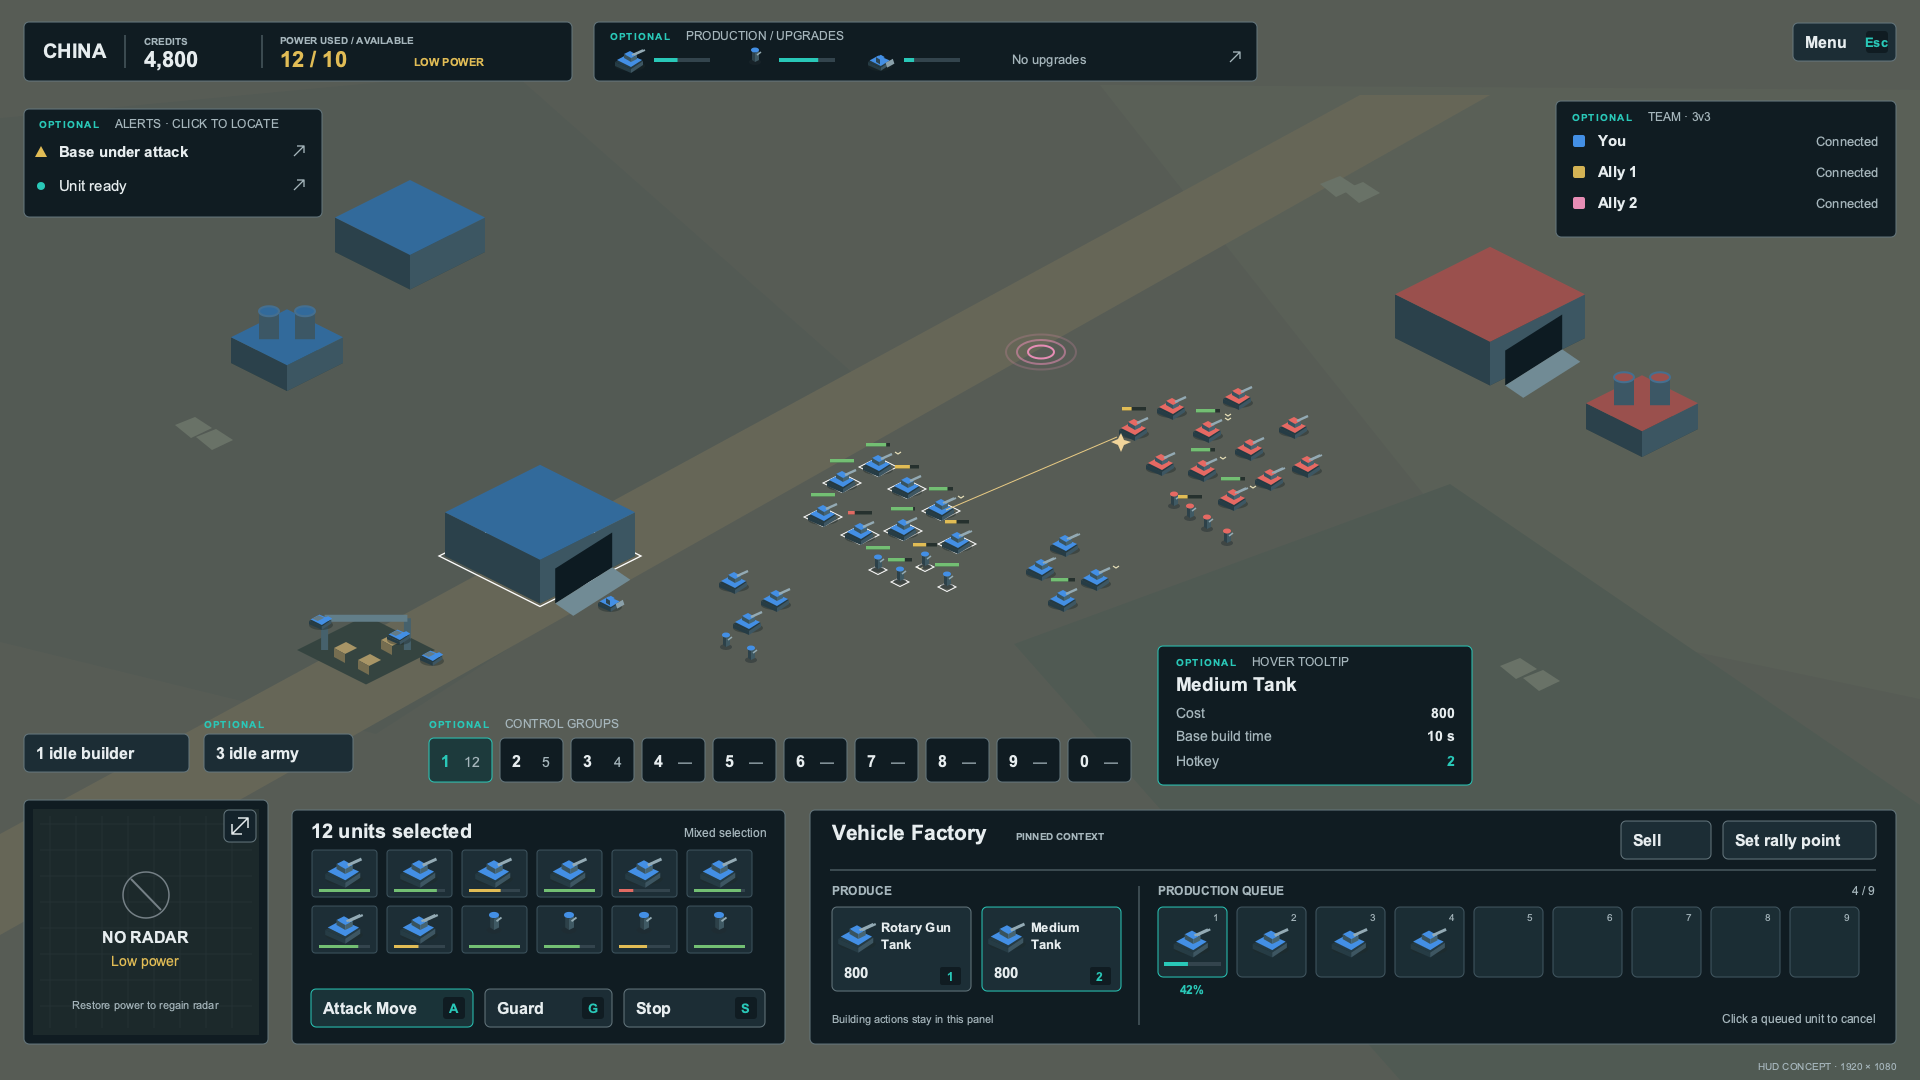
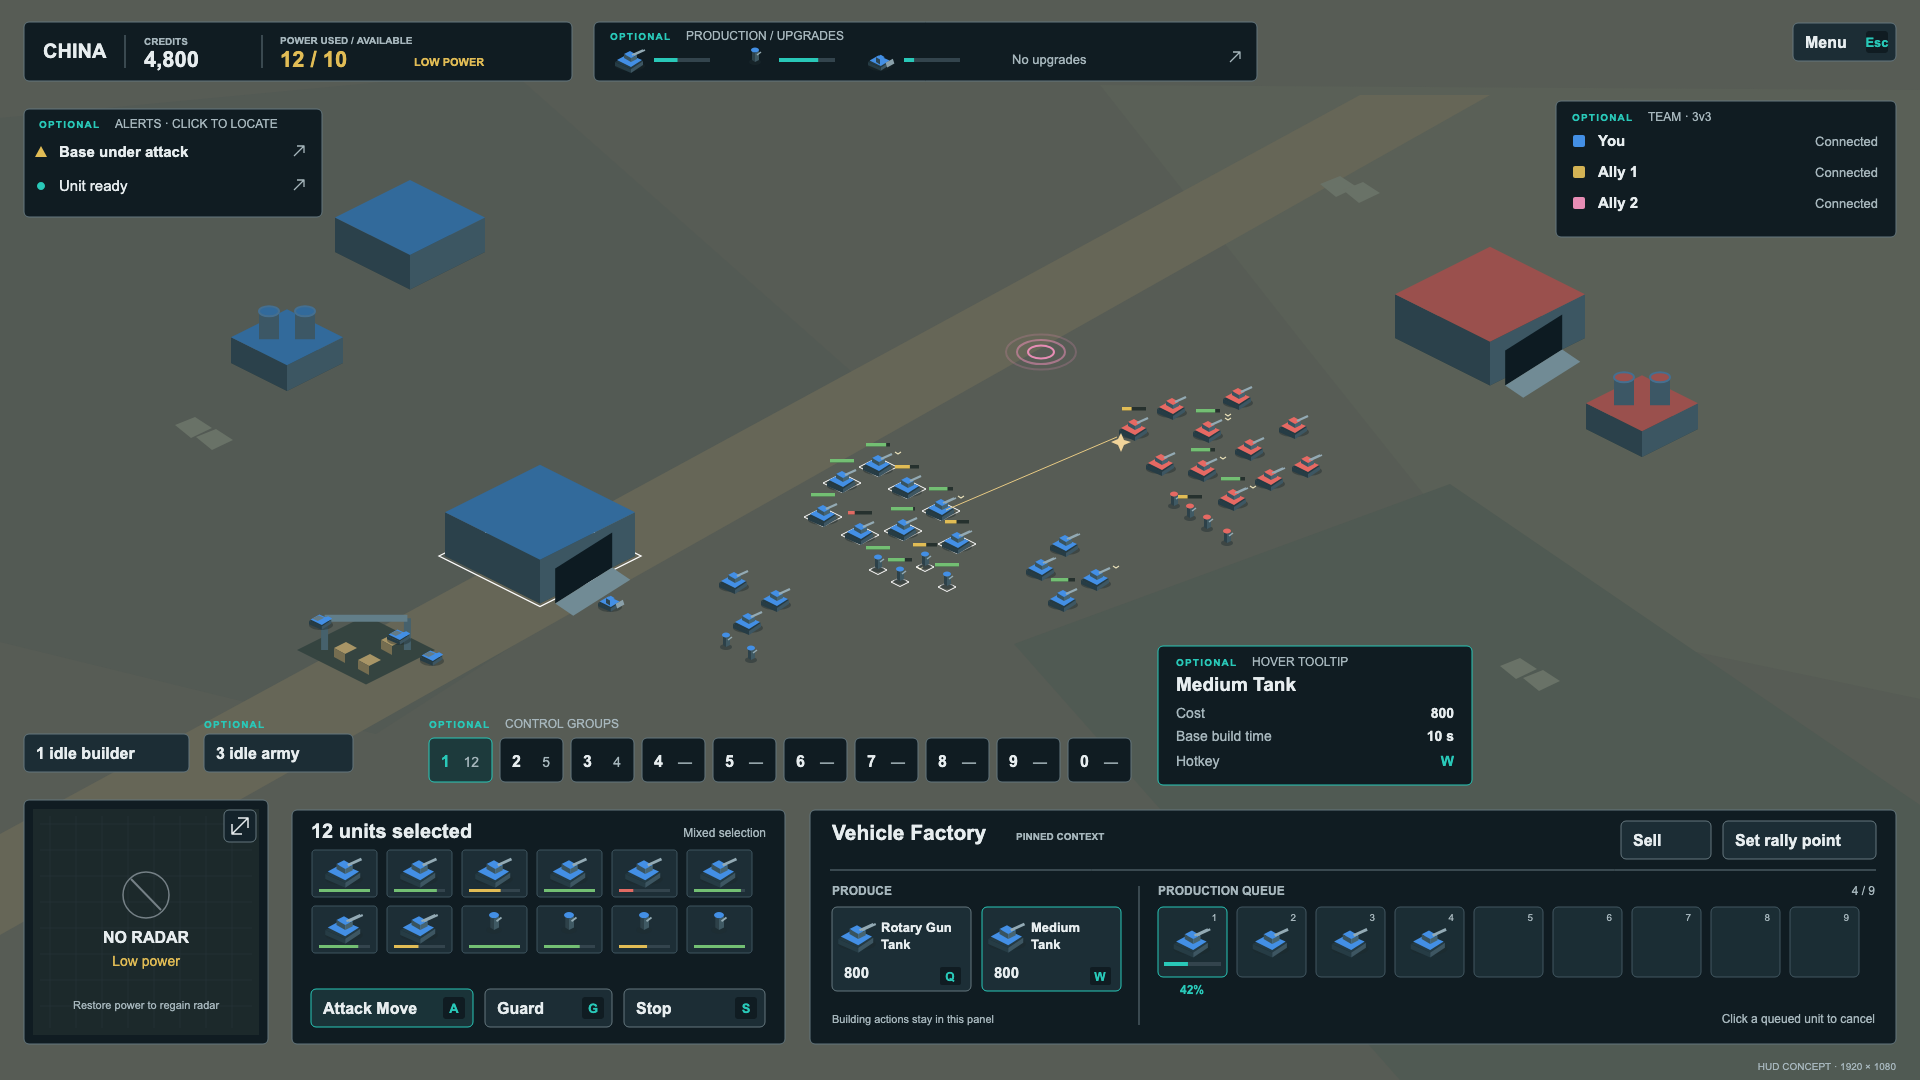
Use letter hotkeys for production in the HUD mock-up
Digits are control groups. Also correct the ping note: it already uses the ally's colour.

diff --git a/docs/questions/next-m76-hud.md b/docs/questions/next-m76-hud.md
@@ -47,11 +47,11 @@ Q8. Should players be able to drop map beacons (a ping with a short text) for te
 
 ## HUD v2 mock-up review (2026-11-09)
 GPT's [HUD v2 mock-up](../images/hud-v2/wargrid-hud-v2.png) ([notes](../images/hud-v2/wargrid-hud-v2-notes.md)) is a proposal, not a decision, and need not be perfect (user). Reviewed by Claude at 1920 x 1080; points to settle in M7.6 planning:
-- **Hotkey clash:** production buttons use `1` and `2` (tooltip "Hotkey 2"), but `1`-`0` are control groups (blueprint Controls). Production needs letter hotkeys, as already decided for HUD buttons.
+- **Hotkey clash (fixed in the mock-up):** production buttons used `1` and `2`, but `1`-`0` are control groups (blueprint Controls). The SVG and PNG now show a letter grid (`Q`, `W`), as AoE IV and BAR use; the actual letter scheme is still open.
 - **Screen coverage:** the bottom dock is about 23 % of the height; with the top bar and the floating alert, team, control-group and tooltip panels roughly a third of the screen is HUD (estimated by eye, not measured). On the Steam Deck (1280 x 800, the budget device) it covers more, or the 11-12 px labels become unreadable. Check at Deck size before choosing a layout.
 - **Pinned factory context:** selection panel and a pinned factory panel side by side (produce without deselecting the army); the notes say A/G/S must never go to the pinned factory, fallback is one dock that switches between army and factory. Open choice.
 - **Optional panels** (control-group bar, idle army, alert feed, production/upgrade overview, hover tooltip, team strip): each open, keep or drop; see also [hud-modern-recheck.md](hud-modern-recheck.md) once written.
 - **Readability at true scale (for the M7.5 art lab, not HUD):** infantry at 12 px read as dots (true size was chosen 2026-11-09); veterancy chevrons and the white unit diamonds are hard to see.
-- **Minor:** the teammate ping is drawn in red/pink rings; it should probably use the pinging ally's colour. "12/10 LOW POWER" reads fine without a power bar.
+- **Minor:** the teammate ping already uses the pinging ally's colour (Ally 2 pink), but pink next to red enemies reads like enemy red: ally and enemy colours need checking together (the ally/enemy colour option, off by default, would solve it for players who turn it on). "12/10 LOW POWER" reads fine without a power bar.
 - **Colours:** the notes propose exact owner colours and a teal UI accent that differ slightly from Claude's mock-up guesses; neither set is decided (art lab).
 - **Unchecked:** the three AoE IV / BAR source links in the notes were not fetched. Verified: Medium Tank cost 800 and 300 ticks (`game/scripts/simulation/definitions/china.gd:13`).

diff --git a/docs/images/hud-v2/wargrid-hud-v2-notes.md b/docs/images/hud-v2/wargrid-hud-v2-notes.md
@@ -20,7 +20,7 @@ Each panel carries an Optional label. These are proposals, not claims about exis
 2. Idle army count alongside idle builder count.
 3. Base-under-attack and unit-ready alert feed; arrow indicates camera-jump action.
 4. Global production/upgrade overview. Current example has active production and no upgrades; no new upgrade names invented.
-5. Hover tooltip: Medium Tank, cost 800, base build time 10 s, hotkey 2. “Base” distinguishes this from actual time during the displayed low-power state. Unit data: existing China definition has cost 800 and 300 ticks; ordering puts Medium Tank second in the factory menu.
+5. Hover tooltip: Medium Tank, cost 800, base build time 10 s, hotkey W (changed from 2 by Claude 2026-11-09: digits are control groups; production uses a letter grid, Q W E R ...). “Base” distinguishes this from actual time during the displayed low-power state. Unit data: existing China definition has cost 800 and 300 ticks; ordering puts Medium Tank second in the factory menu.
 6. Three-player allied team strip for 3v3: name, ownership color and connection status. “Ally 1” and “Ally 2” are sample name placeholders, not game character names.
 
 The factory is a pinned secondary context to show factory controls alongside the active twelve-unit army selection. This is an additional layout proposal, not an established selection contract. Pinning should never redirect A/G/S away from the primary army selection. If pinning is rejected, use the same dock for separate army/factory selection states.
